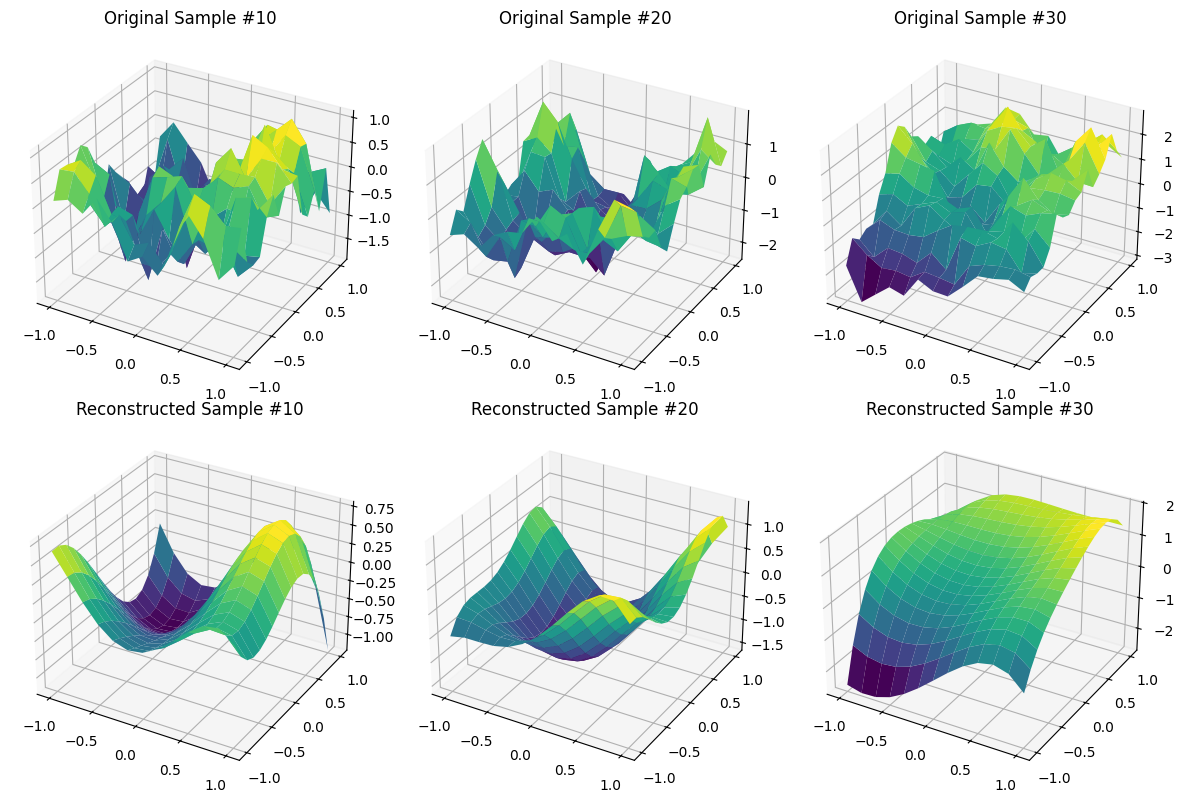
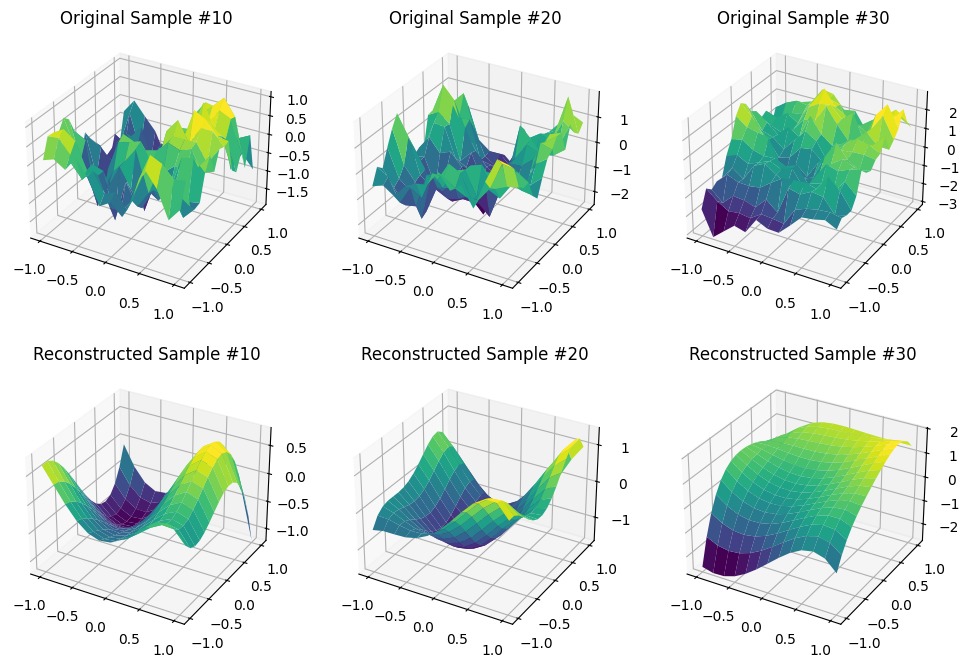
more progress

diff --git a/_posts/2024-08-15-legendre.md b/_posts/2024-08-15-legendre.md
@@ -395,11 +395,13 @@ class LegendreProjection:
 
 ```
 
+We will use $m=4$, which translates into $B=15$.
+
 
 ```python
 projection = LegendreProjection(X, Y, 4)
 A = projection.fit_transform(V_all)
-samples_hat = projection.inverse_transform(A)
+V_hat_all = projection.inverse_transform(A)
 ```
 
 
@@ -409,19 +411,17 @@ fig, axes = plt.subplots(figsize=(12, 8), nrows=2, ncols=3, subplot_kw=dict(proj
 axes[0, 0].set_title('Original Sample #10')
 axes[0, 0].plot_surface(X, Y, V_all[10], cmap='viridis')
 axes[1, 0].set_title('Reconstructed Sample #10')
-axes[1, 0].plot_surface(X, Y, samples_hat[10], cmap='viridis')
+axes[1, 0].plot_surface(X, Y, V_hat_all[10], cmap='viridis')
 
 axes[0, 1].set_title('Original Sample #20')
 axes[0, 1].plot_surface(X, Y, V_all[20], cmap='viridis')
 axes[1, 1].set_title('Reconstructed Sample #20')
-axes[1, 1].plot_surface(X, Y, samples_hat[20], cmap='viridis')
+axes[1, 1].plot_surface(X, Y, V_hat_all[20], cmap='viridis')
 
 axes[0, 2].set_title('Original Sample #30')
 axes[0, 2].plot_surface(X, Y, V_all[30], cmap='viridis')
 axes[1, 2].set_title('Reconstructed Sample #30')
-axes[1, 2].plot_surface(X, Y, samples_hat[30], cmap='viridis')
-
-fig.tight_layout()
+axes[1, 2].plot_surface(X, Y, V_hat_all[30], cmap='viridis');
 ```
 
 
@@ -510,7 +510,7 @@ for i in range(6):
     
 
 
-As expected, as $L$ increases the quality of the fit improves.
+As expected, as $L$ increases the quality of the fit improves. With $L=15$ we have the same quality of the Legendre projection itself, since the $\varpi_\ell$ are linear combinations of the $\psi_b$ functions, but in this case there will be no dimensionality reduction.
 
 
 ```python
@@ -519,17 +519,17 @@ fig, axes = plt.subplots(figsize=(12, 8), nrows=2, ncols=3, subplot_kw=dict(proj
 axes[0, 0].set_title('Original Sample')
 axes[0, 0].plot_surface(X, Y, V_all[10], cmap='viridis')
 axes[0, 1].set_title('Reconstructed Sample, L=1')
-axes[0, 1].plot_surface(X, Y, fda.inverse_transform(fda.transform(samples_hat[10]), 1), cmap='viridis')
+axes[0, 1].plot_surface(X, Y, fda.inverse_transform(fda.transform(V_hat_all[10]), 1), cmap='viridis')
 
 axes[0, 2].set_title('Reconstructed Sample, L=2')
-axes[0, 2].plot_surface(X, Y, fda.inverse_transform(fda.transform(samples_hat[10]), 2), cmap='viridis')
+axes[0, 2].plot_surface(X, Y, fda.inverse_transform(fda.transform(V_hat_all[10]), 2), cmap='viridis')
 axes[1, 0].set_title('Reconstructed Sample, L=4')
-axes[1, 0].plot_surface(X, Y, fda.inverse_transform(fda.transform(samples_hat[10]), 4), cmap='viridis')
+axes[1, 0].plot_surface(X, Y, fda.inverse_transform(fda.transform(V_hat_all[10]), 4), cmap='viridis')
 
 axes[1, 1].set_title('Reconstructed Sample, L=6')
-axes[1, 1].plot_surface(X, Y, fda.inverse_transform(fda.transform(samples_hat[10]), 6), cmap='viridis')
+axes[1, 1].plot_surface(X, Y, fda.inverse_transform(fda.transform(V_hat_all[10]), 6), cmap='viridis')
 axes[1, 2].set_title('Reconstructed Sample, L=15')
-axes[1, 2].plot_surface(X, Y, fda.inverse_transform(fda.transform(samples_hat[10]), 15), cmap='viridis');
+axes[1, 2].plot_surface(X, Y, fda.inverse_transform(fda.transform(V_hat_all[10]), 15), cmap='viridis');
 ```
 
 
